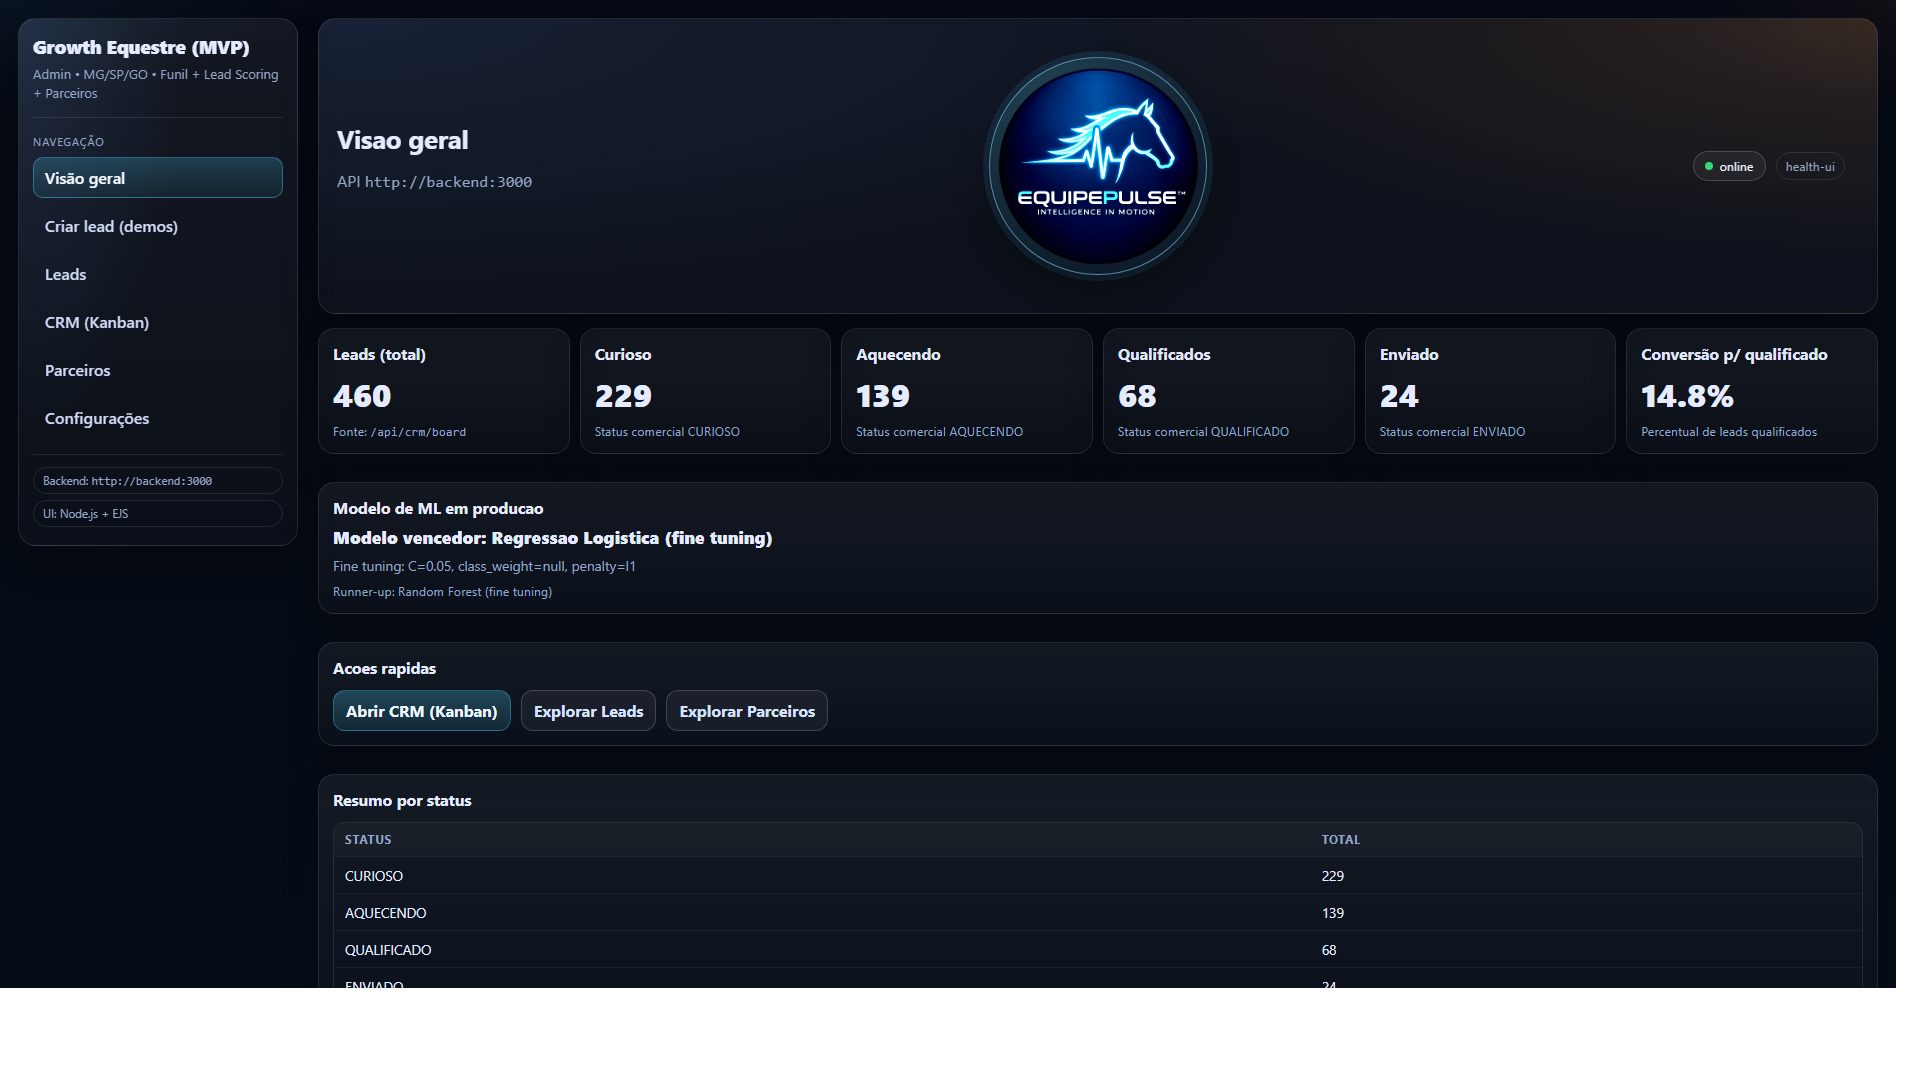
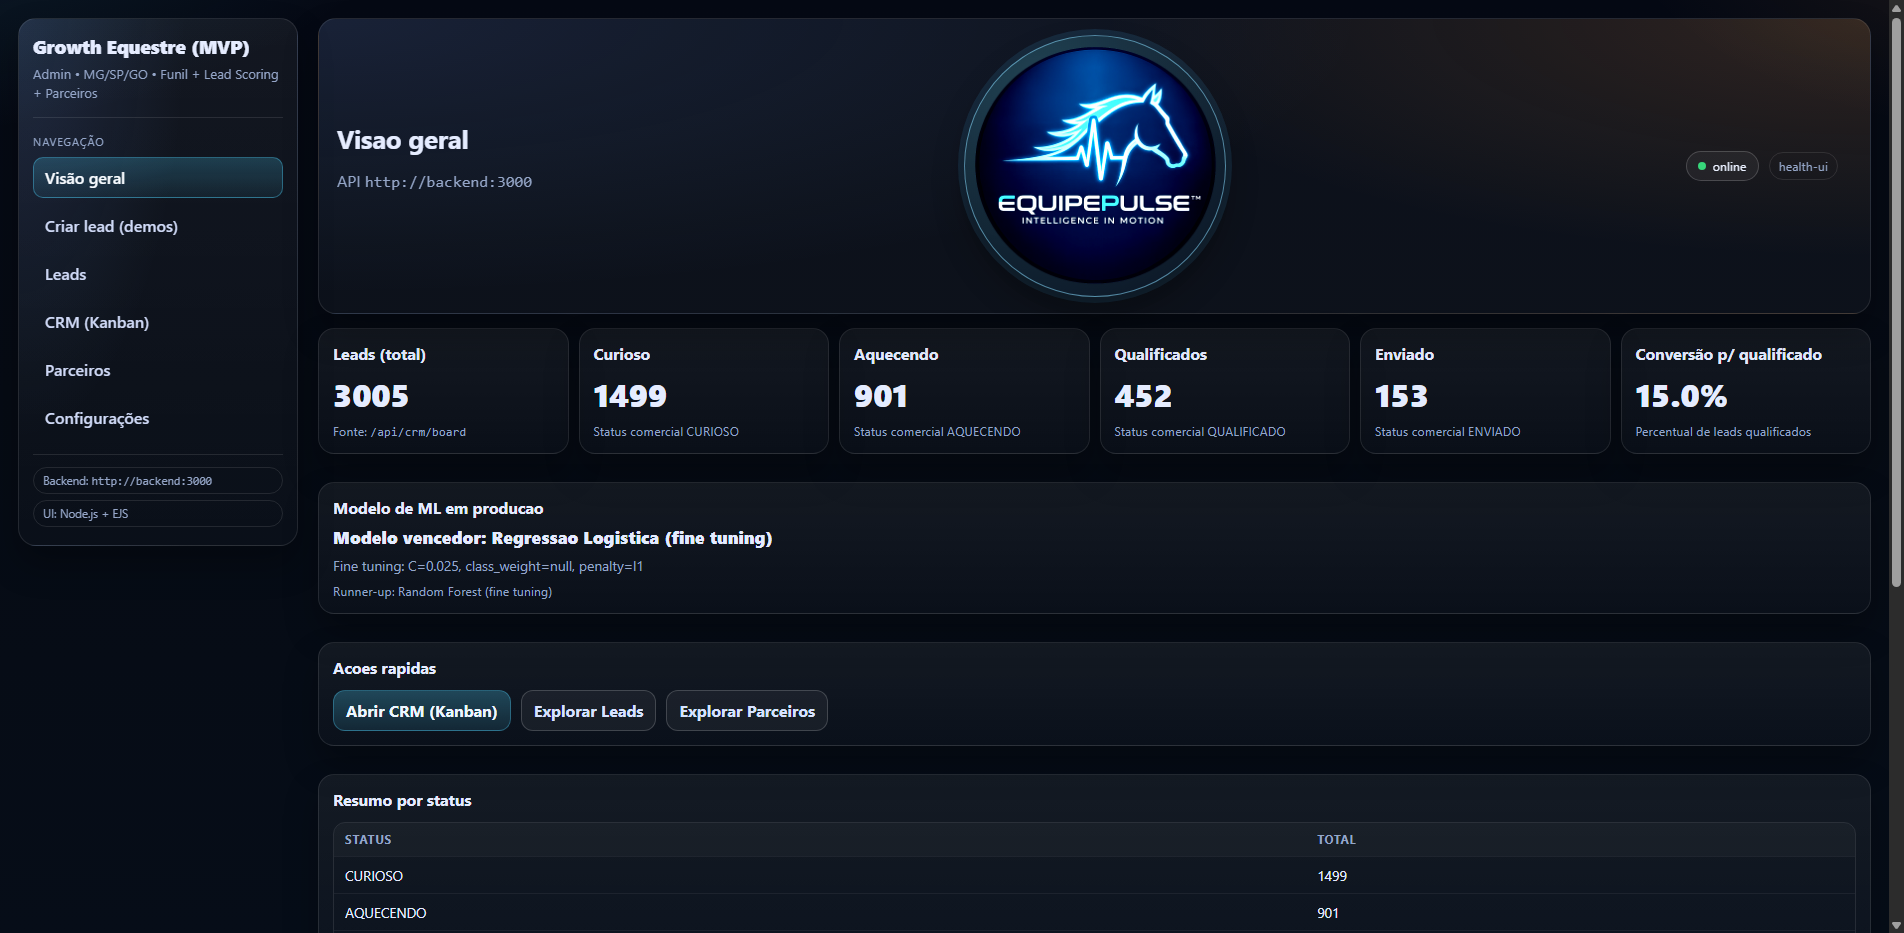
docs(readme): detalha 8.2.1 visao geral com rolagem

diff --git a/tools/docs/capture_ui_core_screens.py b/tools/docs/capture_ui_core_screens.py
@@ -1,6 +1,7 @@
 #!/usr/bin/env python3
 """
 Capture updated README screenshots for the main UI Node.js screens:
+- overview (dashboard)
 - create-lead-demos
 - leads
 - kanban
@@ -12,6 +13,7 @@ Usage (from repo root):
   python tools/docs/capture_ui_core_screens.py --ui-url http://127.0.0.1:3100
   python tools/docs/capture_ui_core_screens.py --ui-url http://127.0.0.1:3200 --start-server --capture-create-deep
   python tools/docs/capture_ui_core_screens.py --ui-url http://127.0.0.1:3200 --start-server --capture-retrain-result
+  python tools/docs/capture_ui_core_screens.py --ui-url http://127.0.0.1:3100 --capture-overview-deep
 """
 
 from __future__ import annotations
@@ -35,6 +37,9 @@ from selenium.webdriver.support.ui import WebDriverWait
 
 ROOT = Path(__file__).resolve().parents[2]
 OUT_DIR = ROOT / "docs" / "readme_images"
+PNG_OVERVIEW = OUT_DIR / "ui-visao-geral.png"
+PNG_OVERVIEW_SCROLL_1 = OUT_DIR / "ui-visao-geral-rolagem-1.png"
+PNG_OVERVIEW_SCROLL_2 = OUT_DIR / "ui-visao-geral-rolagem-2.png"
 PNG_CREATE = OUT_DIR / "ui-criar-lead-demos.png"
 PNG_CREATE_RESULT = OUT_DIR / "ui-criar-lead-demos-resultado.png"
 PNG_CREATE_PITCH = OUT_DIR / "ui-criar-lead-demos-roteiro.png"
@@ -140,6 +145,30 @@ def open_first_kanban_lead_details(driver: webdriver.Chrome, wait: WebDriverWait
         time.sleep(0.4)
 
 
+def capture_overview_deep(driver: webdriver.Chrome, wait: WebDriverWait) -> None:
+    wait.until(ec.presence_of_element_located((By.ID, "kpiLeads")))
+    # Use a shorter viewport to ensure visible vertical scroll captures.
+    original_size = driver.get_window_size()
+    try:
+        driver.set_window_size(1920, 760)
+        driver.execute_script("window.scrollTo(0, 0);")
+        time.sleep(0.25)
+
+        # Mid scroll: modelo/acoes/resumo por status.
+        mid_anchor = driver.find_element(By.ID, "dashboardTable")
+        driver.execute_script("arguments[0].scrollIntoView({block: 'start'});", mid_anchor)
+        time.sleep(0.35)
+        capture_viewport_png(driver, PNG_OVERVIEW_SCROLL_1)
+
+        # Deep scroll: bloco de parceiros (filtro + KPIs + tabela).
+        partner_anchor = driver.find_element(By.ID, "overviewPartnersTable")
+        driver.execute_script("arguments[0].scrollIntoView({block: 'start'});", partner_anchor)
+        time.sleep(0.35)
+        capture_viewport_png(driver, PNG_OVERVIEW_SCROLL_2)
+    finally:
+        driver.set_window_size(original_size.get("width", 1920), original_size.get("height", 1080))
+
+
 def capture_create_lead_result_and_pitch(driver: webdriver.Chrome, wait: WebDriverWait) -> None:
     wait.until(ec.element_to_be_clickable((By.ID, "clQuickQualificado")))
 
@@ -207,6 +236,8 @@ def capture_assets(
     ui_url: str,
     capture_retrain_result: bool = False,
     capture_create_deep: bool = False,
+    capture_overview_deep_flag: bool = False,
+    only_overview: bool = False,
 ) -> None:
     OUT_DIR.mkdir(parents=True, exist_ok=True)
 
@@ -221,6 +252,13 @@ def capture_assets(
     wait = WebDriverWait(driver, 25)
     base = ui_url.rstrip("/")
     try:
+        wait_page_ready(driver, wait, f"{base}/", "#kpiLeads")
+        capture_viewport_png(driver, PNG_OVERVIEW)
+        if capture_overview_deep_flag:
+            capture_overview_deep(driver, wait)
+        if only_overview:
+            return
+
         wait_page_ready(driver, wait, f"{base}/create-lead-demos", "#createLeadDemoForm")
         capture_viewport_png(driver, PNG_CREATE)
         if capture_create_deep:
@@ -259,6 +297,16 @@ def main() -> int:
         action="store_true",
         help="Captura evidencias da guia Criar lead: card de resultado e roteiro de demo executado.",
     )
+    parser.add_argument(
+        "--capture-overview-deep",
+        action="store_true",
+        help="Captura evidencias adicionais da 8.2.1 (Visao geral) em rolagem.",
+    )
+    parser.add_argument(
+        "--only-overview",
+        action="store_true",
+        help="Captura apenas a guia Visao geral e encerra.",
+    )
     args = parser.parse_args()
 
     ui_url = args.ui_url.rstrip("/")
@@ -276,7 +324,15 @@ def main() -> int:
             ui_url,
             capture_retrain_result=args.capture_retrain_result,
             capture_create_deep=args.capture_create_deep,
+            capture_overview_deep_flag=args.capture_overview_deep,
+            only_overview=args.only_overview,
         )
+        print(f"[ok] {PNG_OVERVIEW.relative_to(ROOT)}")
+        if args.capture_overview_deep:
+            print(f"[ok] {PNG_OVERVIEW_SCROLL_1.relative_to(ROOT)}")
+            print(f"[ok] {PNG_OVERVIEW_SCROLL_2.relative_to(ROOT)}")
+        if args.only_overview:
+            return 0
         print(f"[ok] {PNG_CREATE.relative_to(ROOT)}")
         if args.capture_create_deep:
             print(f"[ok] {PNG_CREATE_RESULT.relative_to(ROOT)}")

diff --git a/README.md b/README.md
@@ -32,6 +32,7 @@
 - [8. Como Usar as UIs na Prática](#8-como-usar-as-uis-na-pratica)
 - [8.1 Fase 1 - UI Streamlit (MVP funcional)](#81-fase-1---ui-streamlit-mvp-funcional)
 - [8.2 Fase 2 - UI Node.js + EJS (escalabilidade)](#82-fase-2---ui-nodejs--ejs-escalabilidade)
+- [8.2.1 Guia detalhado - Visão geral](#821-guia-detalhado-visao-geral)
 - [8.2.2 Guia detalhado - Criar lead (demos)](#822-guia-detalhado-criar-lead-demos)
 - [8.2.2.1 Forma 1 - Atalhos Gerar CURIOSO/AQUECENDO/QUALIFICADO](#8221-forma-1--atalhos-gerar-curiosoaquecendoqualificado)
 - [8.2.2.2 Forma 2 - Preenchimento manual + checklist do funil](#8222-forma-2--preenchimento-manual--checklist-do-funil)
@@ -245,10 +246,53 @@ Página guiada para pitch: cria cenário completo, mostra ordem recomendada e ch
 ### 8.2 Fase 2 - UI Node.js + EJS (escalabilidade)
 Com a Streamlit validada, migramos para Node.js + EJS para elevar escalabilidade de frontend, roteamento e evolução de produto com maior controle.
 
-#### 8.2.1 Visão geral (Node.js)
-KPIs executivos, conversão, resumo de status e modelo de ML em produção.
+<a id="821-guia-detalhado-visao-geral"></a>
 
-![Node.js - Visão geral](docs/readme_images/ui-visao-geral.png)
+#### 8.2.1 Visão geral (Node.js) - guia detalhado com rolagem
+A guia **Visão geral** é o painel executivo da operação. Ela possui **rolagem vertical** e foi organizada em blocos para responder três perguntas:
+1. Quantos leads temos e em quais status?
+2. Qual modelo de ML está ativo para novos scores?
+3. Como está a base de parceiros por segmento e UF?
+
+Topo da guia (KPIs principais):
+
+![Node.js - Visão geral (topo)](docs/readme_images/ui-visao-geral.png)
+
+##### 8.2.1.1 Blocos do topo e o que cada informação representa
+| Bloco | O que mostra | Como interpretar na prática |
+|---|---|---|
+| `Leads (total)` | Quantidade total de leads no board (`/api/crm/board`). | Volume geral do funil no momento. |
+| `Curioso` | Leads no estágio inicial de interesse. | Base de descoberta; exige nutrição e diagnóstico. |
+| `Aquecendo` | Leads com sinais de evolução no funil. | Momento de acelerar contato e qualificação. |
+| `Qualificados` | Leads com maior aderência comercial. | Prioridade alta de atendimento. |
+| `Enviado` | Leads já encaminhados para parceiro/operação. | Controle de handoff e acompanhamento. |
+| `Conversão p/ qualificado` | Percentual de leads qualificados sobre o total. | Indicador de eficiência do funil (`qualificados / total`). |
+
+Primeira rolagem (modelo em produção, ações rápidas e resumo por status):
+
+![Node.js - Visão geral (rolagem 1)](docs/readme_images/ui-visao-geral-rolagem-1.png)
+
+##### 8.2.1.2 Bloco intermediário e interpretação
+- `Modelo de ML em produção`: mostra o **modelo vencedor** ativo, resumo de **fine tuning** e o **runner-up** para referência técnica.
+- `Ações rápidas`: atalhos para abrir `CRM (Kanban)`, `Leads` e `Parceiros`, reduzindo navegação operacional.
+- `Resumo por status`: tabela consolidada por status comercial; útil para validar se os números dos cards estão coerentes.
+
+Segunda rolagem (diretório de parceiros):
+
+![Node.js - Visão geral (rolagem 2)](docs/readme_images/ui-visao-geral-rolagem-2.png)
+
+##### 8.2.1.3 Bloco de parceiros e interpretação
+- `UF`: filtra o resumo por estado (`MG`, `SP`, `GO` ou todos).
+- `Atualizar resumo`: recarrega os dados do bloco de parceiros com o filtro atual.
+- `KPIs de parceiros`: total geral e distribuição por segmento (`Cavalos`, `Serviços`, `Eventos`, `Equipamentos`).
+- `Tabela de parceiros`: detalha o total por segmento; apoia decisão de encaminhamento por oferta disponível.
+
+##### 8.2.1.4 Fluxo recomendado para o usuário final
+1. Verifique os KPIs do topo para entender volume e estágio do funil.
+2. Confira a conversão para medir eficiência de qualificação.
+3. Revise o bloco de modelo de ML para saber qual motor está ativo em novos scores.
+4. Use o diretório de parceiros (com filtro UF) para planejar encaminhamentos.
+5. Navegue pelos atalhos para atuar no `CRM (Kanban)` e em `Leads`.
 
 <a id="822-guia-detalhado-criar-lead-demos"></a>
 
@@ -714,7 +758,14 @@ Para atualizar os prints das guias principais da UI Node.js:
    ```powershell
    python tools/docs/capture_ui_core_screens.py --ui-url http://127.0.0.1:3200 --start-server --capture-retrain-result
    ```
-5. Arquivos gerados/atualizados:
+5. (Opcional) Capturar a seção **8.2.1 Visão geral** com rolagem (somente overview):
+   ```powershell
+   python tools/docs/capture_ui_core_screens.py --ui-url http://127.0.0.1:3200 --start-server --only-overview --capture-overview-deep
+   ```
+6. Arquivos gerados/atualizados:
+   - `docs/readme_images/ui-visao-geral.png`
+   - `docs/readme_images/ui-visao-geral-rolagem-1.png` (quando usado `--capture-overview-deep`)
+   - `docs/readme_images/ui-visao-geral-rolagem-2.png` (quando usado `--capture-overview-deep`)
    - `docs/readme_images/ui-criar-lead-demos.png`
    - `docs/readme_images/ui-criar-lead-demos-resultado.png` (quando usado `--capture-create-deep`)
    - `docs/readme_images/ui-criar-lead-demos-roteiro.png` (quando usado `--capture-create-deep`)
